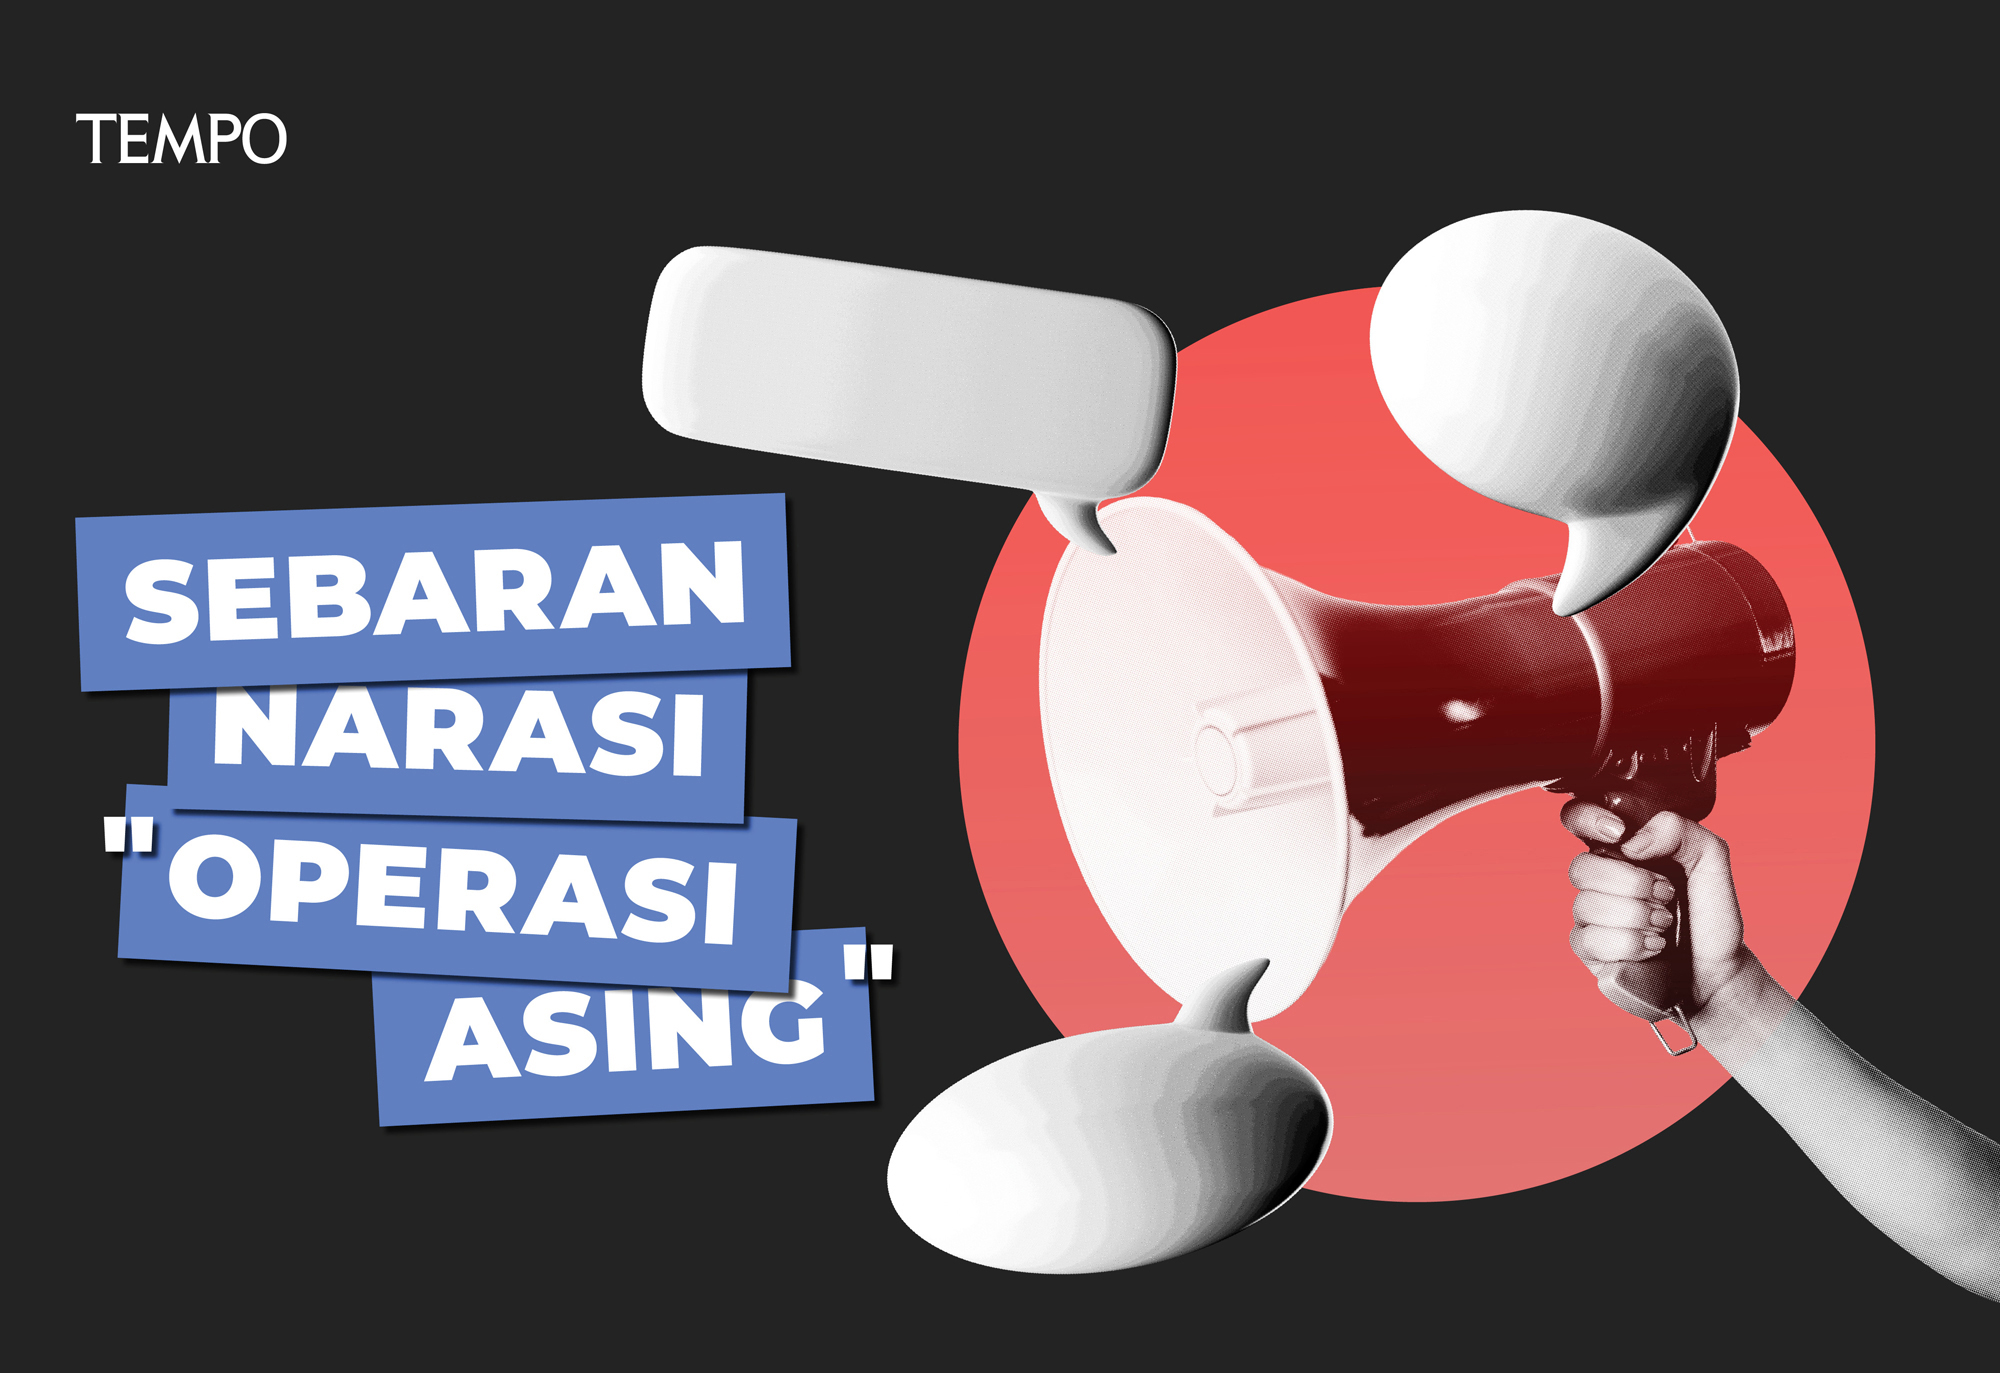
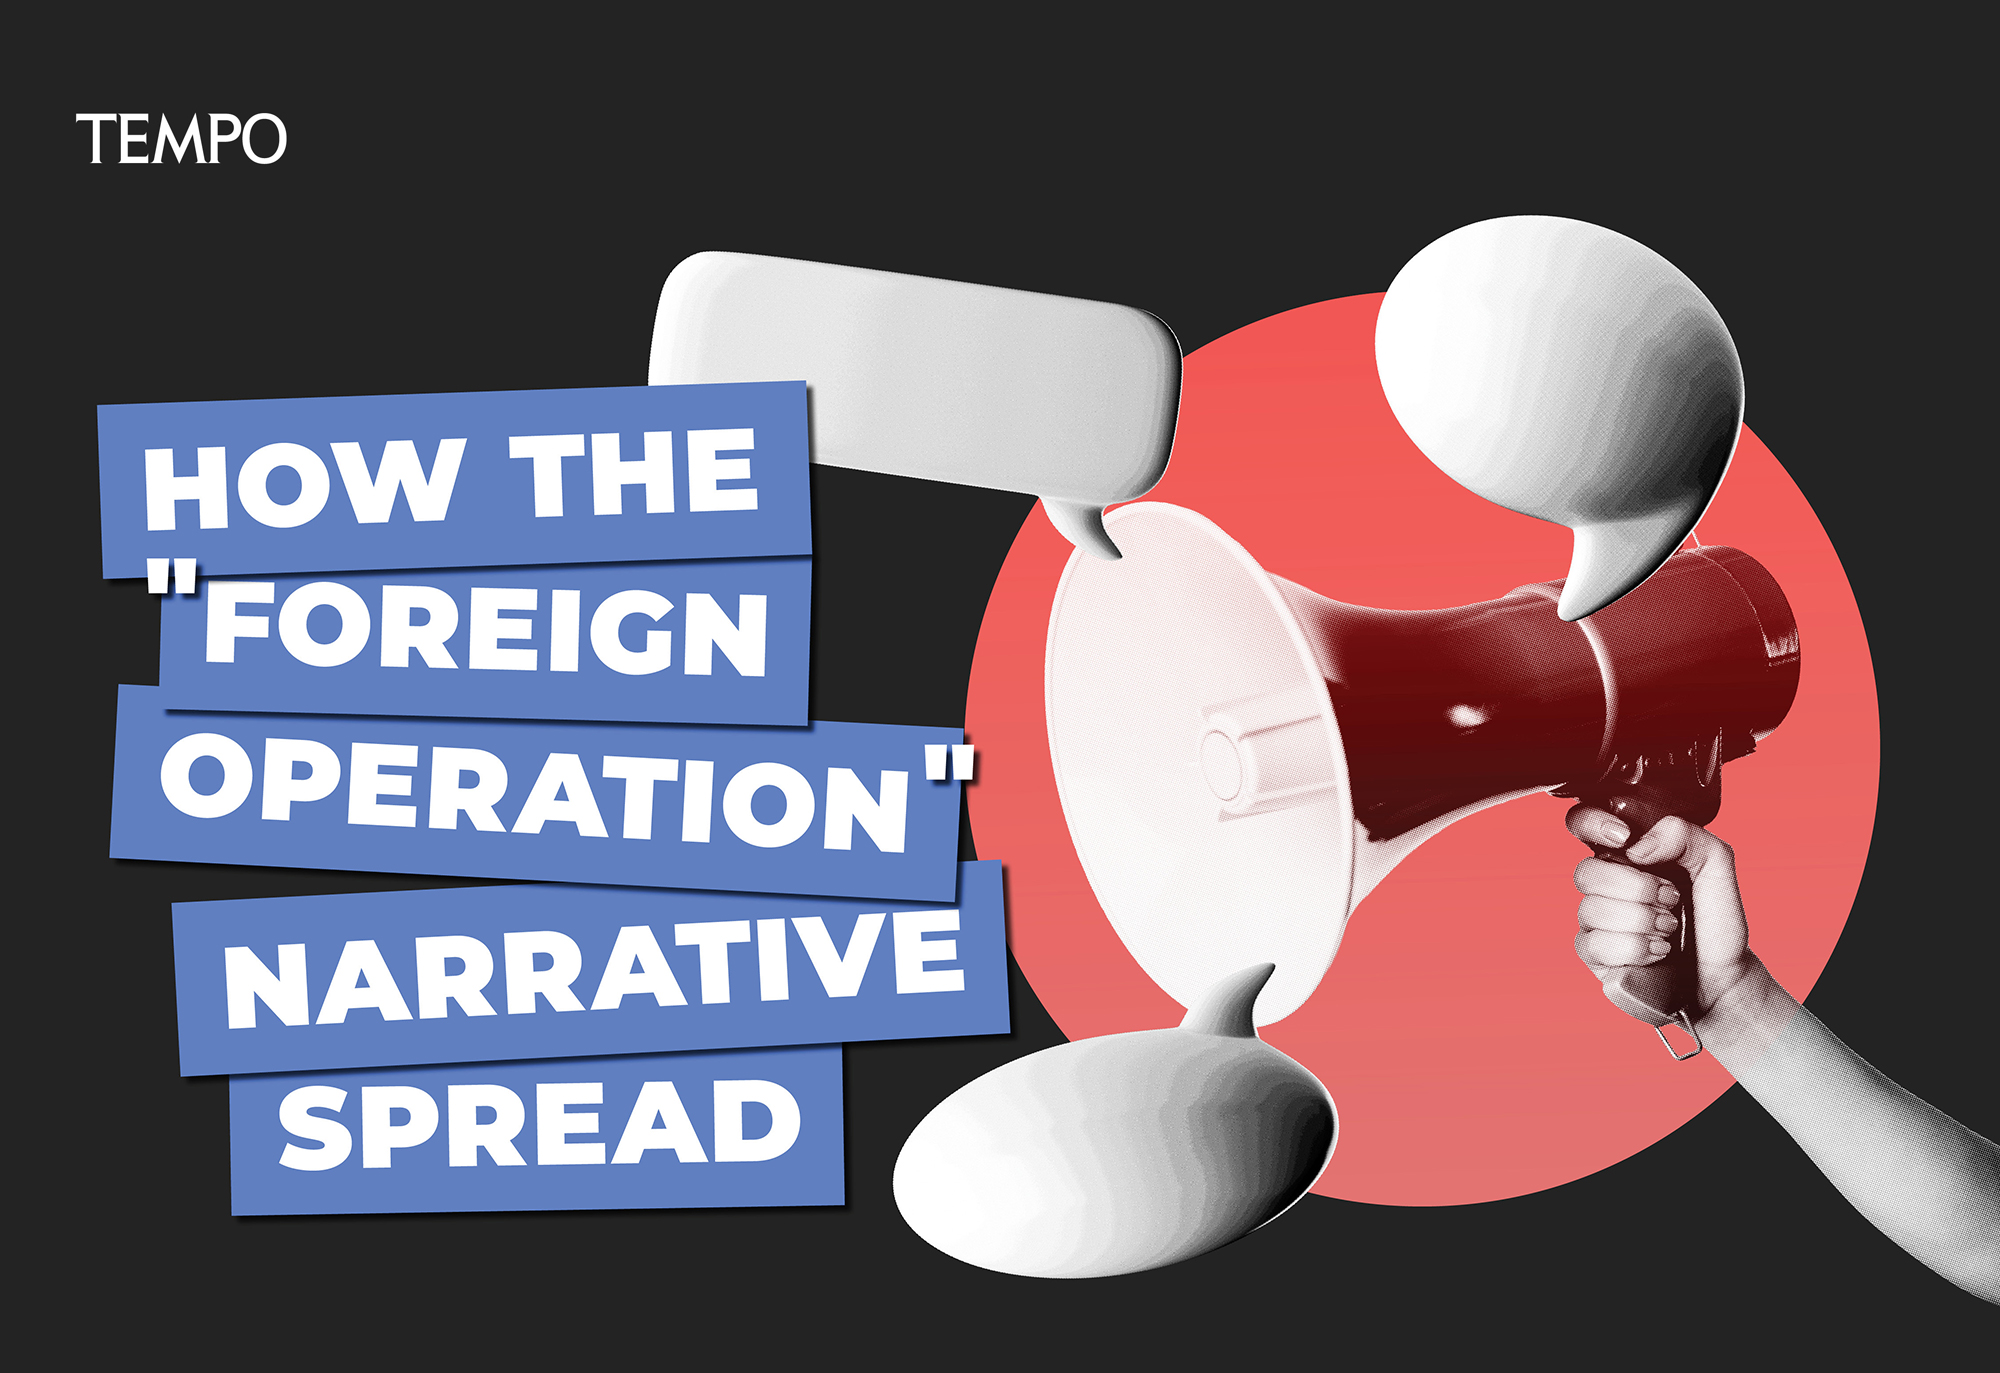
Add files via upload

diff --git a/en/index.html b/en/index.html
@@ -20,10 +20,10 @@
     <meta name="robots" content="follow" />
     <meta property="og:type" content="website" />
     <meta property="og:locale" content="id_ID" />
-    <meta name="title" content="Operasi Rusia Setelah Unjuk Rasa" />
+    <meta name="title" content="Russia's Operation After the Protests" />
     <meta
       name="description"
-      content="Sejumlah pendukung Rusia menuding demonstrasi akhir Agustus 2025 didanai oleh Amerika Serikat. Diamplifikasi oleh aktor domestik. Laporan ini bagian dari program Indo-Pasific Media Resilience yang didukung oleh Internews dan Uni Eropa. "
+      content="A number of Russia supporters accused the late-August 2025 demonstrations of being funded by the United States. The narrative was amplified by domestic actors. This report is part of the Indo-Pacific Media Resilience program, supported by Internews and the European Union."
     />
     <meta name="author" content="Tempo.co" />
     <meta name="keywords" content="" />
@@ -34,25 +34,25 @@
     <meta name="robots" content="follow" />
     <meta property="og:type" content="website" />
     <meta property="og:locale" content="id_ID" />
-    <meta property="og:title" content="Operasi Rusia Setelah Unjuk Rasa" />
+    <meta property="og:title" content="Russia's Operation After the Protests" />
     <meta
       property="og:description"
-      content="Sejumlah pendukung Rusia menuding demonstrasi akhir Agustus 2025 didanai oleh Amerika Serikat. Diamplifikasi oleh aktor domestik. Laporan ini bagian dari program Indo-Pasific Media Resilience yang didukung oleh Internews dan Uni Eropa."
+      content="A number of Russia supporters accused the late-August 2025 demonstrations of being funded by the United States. The narrative was amplified by domestic actors. This report is part of the Indo-Pacific Media Resilience program, supported by Internews and the European Union."
     />
     <meta
       property="og:image"
       content="https://interaktif.tempo.co/proyek/operasi-informasi-di-negara-lain/assets/images/header.webp"
     />
-    <meta name="twitter:title" content="Operasi Rusia Setelah Unjuk Rasa" />
+    <meta name="twitter:title" content="Russia's Operation After the Protests" />
     <meta
       name="twitter:description"
-      content="Sejumlah pendukung Rusia menuding demonstrasi akhir Agustus 2025 didanai oleh Amerika Serikat. Diamplifikasi oleh aktor domestik. Laporan ini bagian dari program Indo-Pasific Media Resilience yang didukung oleh Internews dan Uni Eropa."
+      content="A number of Russia supporters accused the late-August 2025 demonstrations of being funded by the United States. The narrative was amplified by domestic actors. This report is part of the Indo-Pacific Media Resilience program, supported by Internews and the European Union."
     />
     <meta
       name="twitter:image:src"
       content="https://interaktif.tempo.co/proyek/operasi-informasi-di-negara-lain/assets/images/header.webp"
     />
-    <title>Operasi Rusia Setelah Unjuk Rasa</title>
+    <title>Russia's Operation After the Protests</title>
     <meta name="twitter:card" content="summary_large_image" />
     <meta name="twitter:image:width" content="650" />
     <meta name="twitter:image:height" content="433" />
@@ -74,7 +74,7 @@
       })(window, document, "script", "dataLayer", "GTM-KNSBXFS");
     </script>
     <!-- End Google Tag Manager -->
-    <script type="module" crossorigin src="./assets/index-Tp60Bu4h.js"></script>
+    <script type="module" crossorigin src="./assets/index-hCUZVBiF.js"></script>
     <link rel="stylesheet" crossorigin href="./assets/index-kxUWi7XD.css">
   </head>
   <body>